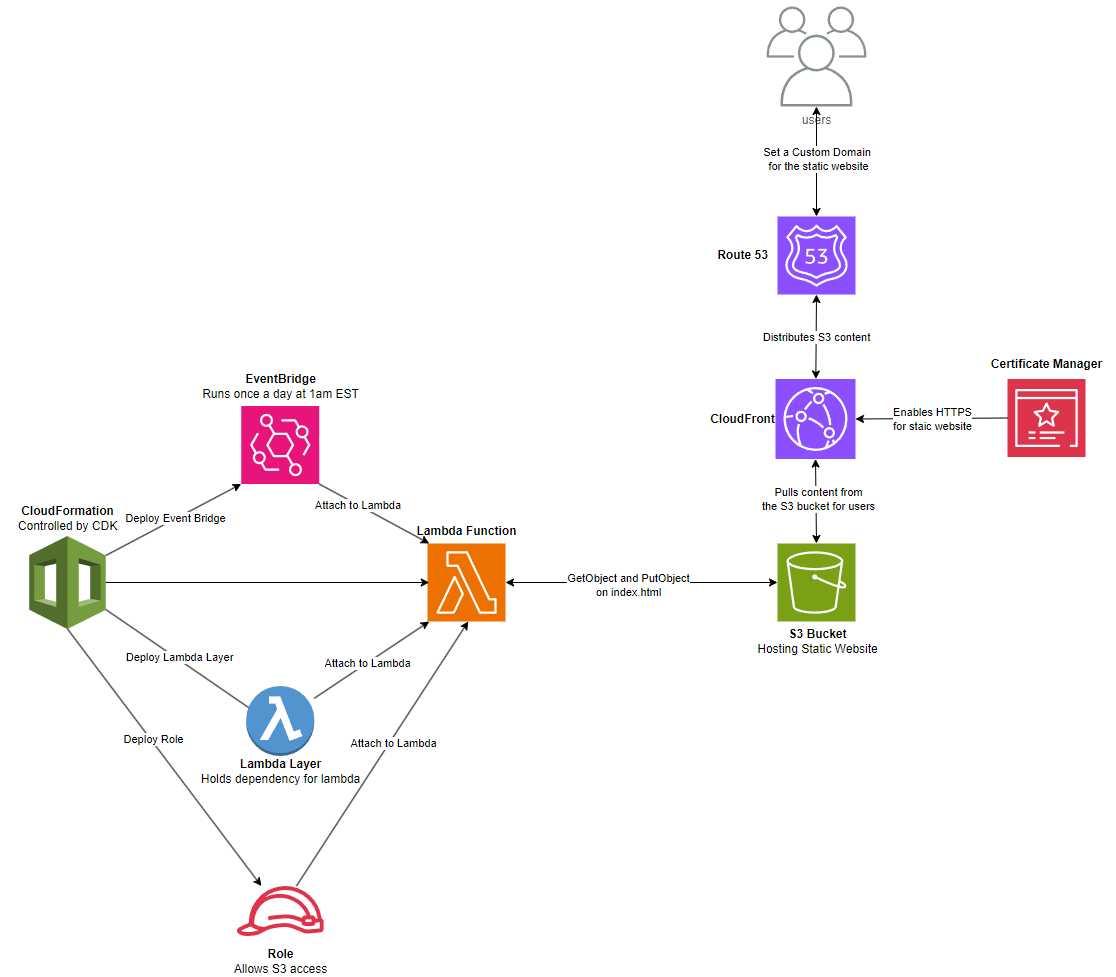
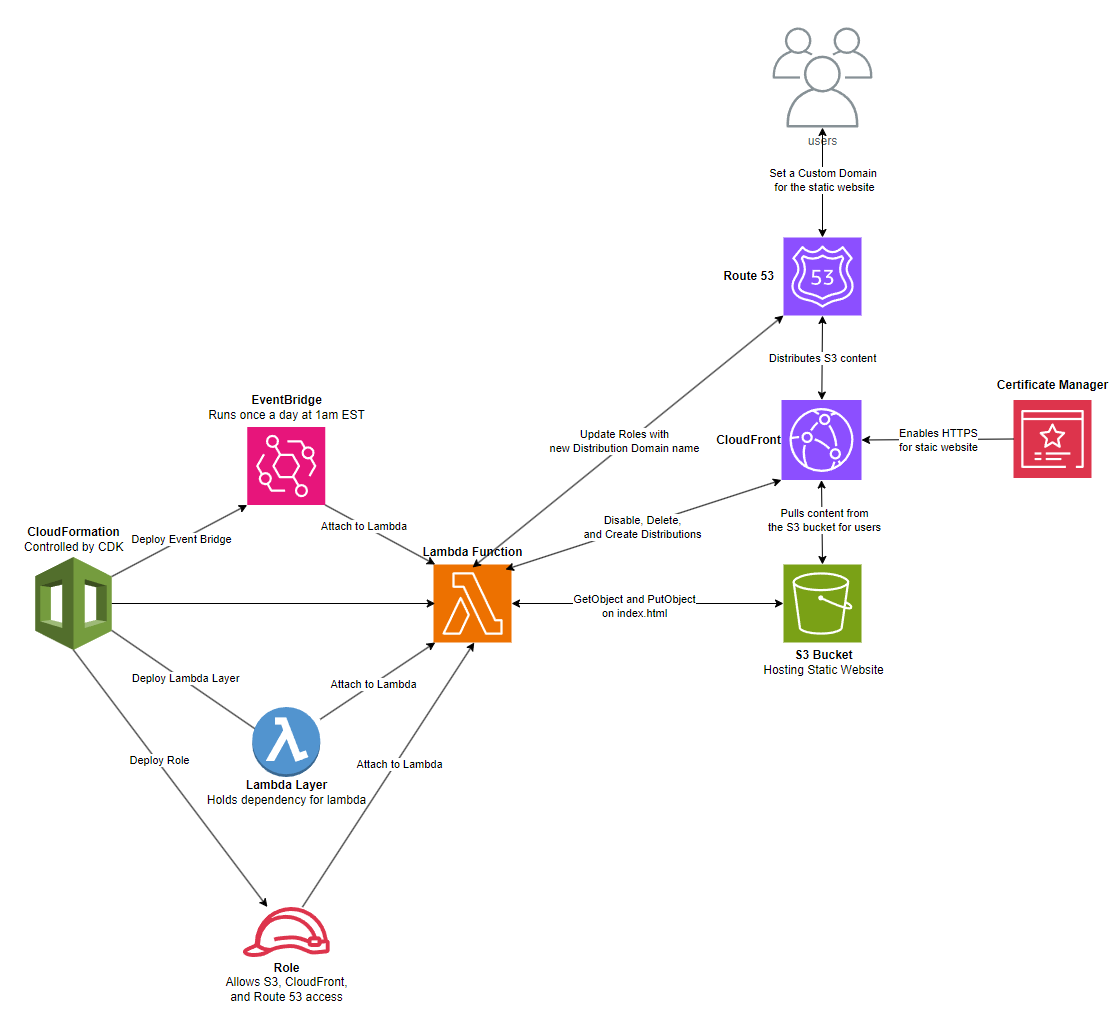
Added logic to handle if there is no cloudfront distribution to diable or delete.
Followed principle of least privilege, removing all full access policies from the lambda function and only adding ones that are needed.

Updated the archetecture diagram based off of lambda updating cloudfront and route 53.

Updated lambda-package.zip

Redeployed CDK

diff --git a/cdk_folder/cdk_folder/cdk_folder_stack.py b/cdk_folder/cdk_folder/cdk_folder_stack.py
@@ -35,15 +35,50 @@ class CdkFolderStack(Stack):
         my_lambda.add_to_role_policy(iam.PolicyStatement(
             effect=iam.Effect.ALLOW,
             actions=[
-                "s3:*",
-                "s3-object-lambda:*",
-                "cloudfront:*",
-                "route53:*",
+                "s3:GetObject",
+                "s3:PutObject",
+                "s3:ListBucket"
+            ],
+            resources=[
+                "arn:aws:s3:::www.premierwatchlist.net/*",
+                "arn:aws:s3:::www.premierwatchlist.net"
+            ],
+        ))
+
+        # Gives CloudFront permissions to lambda function
+        my_lambda.add_to_role_policy(iam.PolicyStatement(
+            effect=iam.Effect.ALLOW,
+            actions=[
+                "cloudfront:GetDistributionConfig",
+				"cloudfront:CreateDistribution",
+				"cloudfront:GetDistribution",
+				"cloudfront:ListDistributions",
+				"cloudfront:TagResource",
+				"cloudfront:UpdateDistribution",
+				"cloudfront:DeleteDistribution"
             ],
             resources=[
                 '*',
             ],
         ))
+
+        # Gives route 53 permissions to lambda function
+        my_lambda.add_to_role_policy(iam.PolicyStatement(
+        effect=iam.Effect.ALLOW,
+        actions=[
+            "route53:ChangeResourceRecordSets",
+            "route53:GetChange",
+            "route53:ListResourceRecordSets"
+        ],
+        resources=[
+            "arn:aws:route53:::hostedzone/Z0402118S674EV25HLOF",
+            "arn:aws:route53:::change/*"
+        ]
+        ))
+
+        # Attach AWS managed policies to the Lambda function's role
+        # my_lambda.role.add_managed_policy(my_lambda.add_to_role_policy("service-role/AWSLambdaBasicExecutionRole"))
+        # my_lambda.role.add_managed_policy(my_lambda.add_to_role_policy("service-role/AWSLambdaRole"))
 
         # Create an EventBridge (CloudWatch Events) Trigger for every day at 6:00am UTC (1:00am EST)
         rule = events.Rule(

diff --git a/Aws.py b/Aws.py
@@ -6,6 +6,7 @@ from datetime import datetime, timedelta
 def disable_cloudfront_distribution():
     cloudfront_client = boto3.client('cloudfront')
     cname = 'www.premierwatchlist.net'
+    distribution_id = 'Null'
     # List all CloudFront distributions
     distributions = cloudfront_client.list_distributions()
     try:
@@ -211,8 +212,9 @@ def create_cloudfront_distribution(id):
     
     cloudfront_client = boto3.client('cloudfront', region_name='us-east-1')
     
-    # Delete the previous distribution
-    delete_cloudfront_distribution(cloudfront_client, id)
+    # Delete the previous distribution, if there was one
+    if id != "Null":
+        delete_cloudfront_distribution(cloudfront_client, id)
     
     # Make a new distribution
     distribution_config = {
